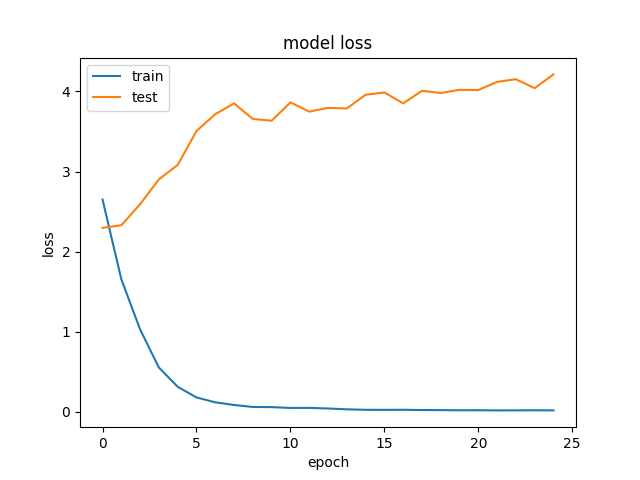
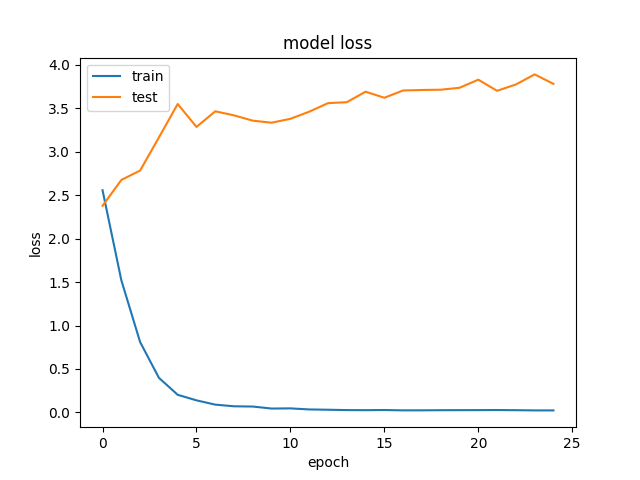
reduce batch size

diff --git a/classifier.py b/classifier.py
@@ -32,9 +32,9 @@ classes = [ 'Women', 'Children', 'Animals', 'Uniforms', 'Buildings', 'Street sce
         ]
 classes = sorted(classes)
 
-IM_WIDTH, IM_HEIGHT = 224, 224
+IM_WIDTH, IM_HEIGHT = 200, 200
 EPOCHS_LARGE = 50
-BS = 32
+BS = 16
 FC_SIZE = 2048
 NUM_CLASSES = len(classes)
 SEED=42
